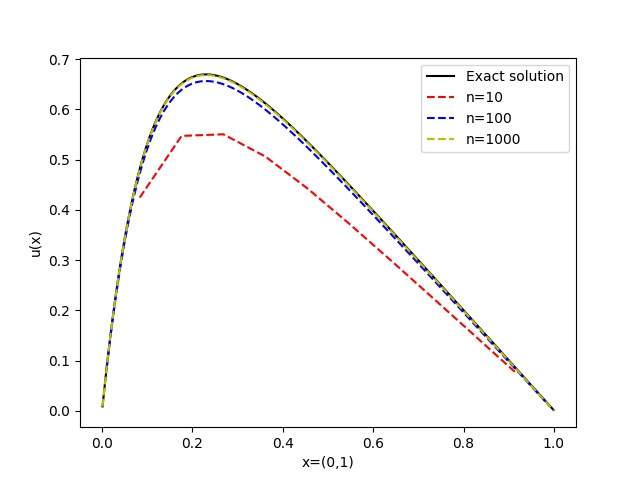
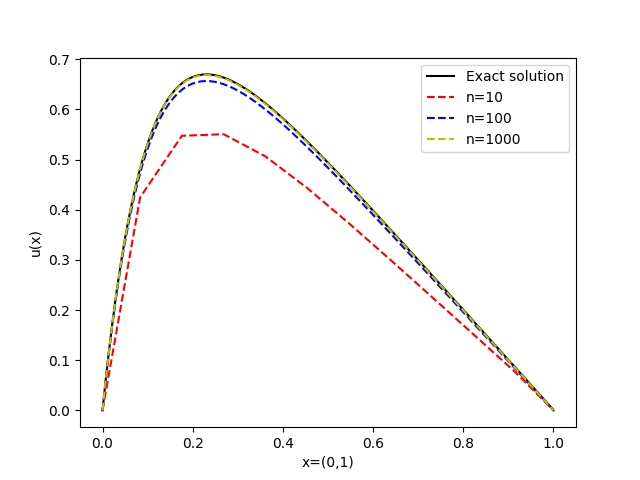
La til plottekode i e)

diff --git a/Project1/1_e/Plotte_code.py b/Project1/1_e/Plotte_code.py
@@ -2,30 +2,45 @@ import matplotlib.pyplot as plt
 import numpy as np
 
 data = open('valn1.txt', 'r')
-y_value = []
-x_value = []
+y_value = [0]
+x_value = [0]
 
 data1 = open('valn2.txt', 'r')
-y1_value = []
-x1_value = []
+y1_value = [0]
+x1_value = [0]
 
 data2 = open('valn3.txt', 'r')
-y2_value = []
-x2_value = []
-ex_vals = []
+y2_value = [0]
+x2_value = [0]
+ex_vals = [0]
+
+
+
 
 for line in data:
-    y_value.append(float(line.split(' ')[0]))
-    x_value.append(float(line.split(' ')[1]))
+    l1, l2, l3 = line.split(' ')
+    y_value.append(float(l1))
+    x_value.append(float(l2))
 
 for line in data1:
-    y1_value.append(float(line.split(' ')[0]))
-    x1_value.append(float(line.split(' ')[1]))
+    l1, l2, l3 = line.split(' ')
+    y1_value.append(float(l1))
+    x1_value.append(float(l2))
 
 for line in data2:
-    y2_value.append(float(line.split(' ')[0]))
-    x2_value.append(float(line.split(' ')[1]))
-    ex_vals.append(float(line.split(" ")[2]))
+    l1, l2, l3 = line.split(' ')
+    y2_value.append(float(l1))
+    x2_value.append(float(l2))
+    ex_vals.append(float(l3))
+
+# Hardkoder inn 0 og 1 for x
+x_value.append(1)
+y_value.append(0)
+y1_value.append(0)
+x1_value.append(1)
+y2_value.append(0)
+x2_value.append(1)
+ex_vals.append(0)
 
 plt.plot(x2_value, ex_vals, "k-",label="Exact solution")
 plt.plot(x_value,y_value,"r--", label="n=10")
